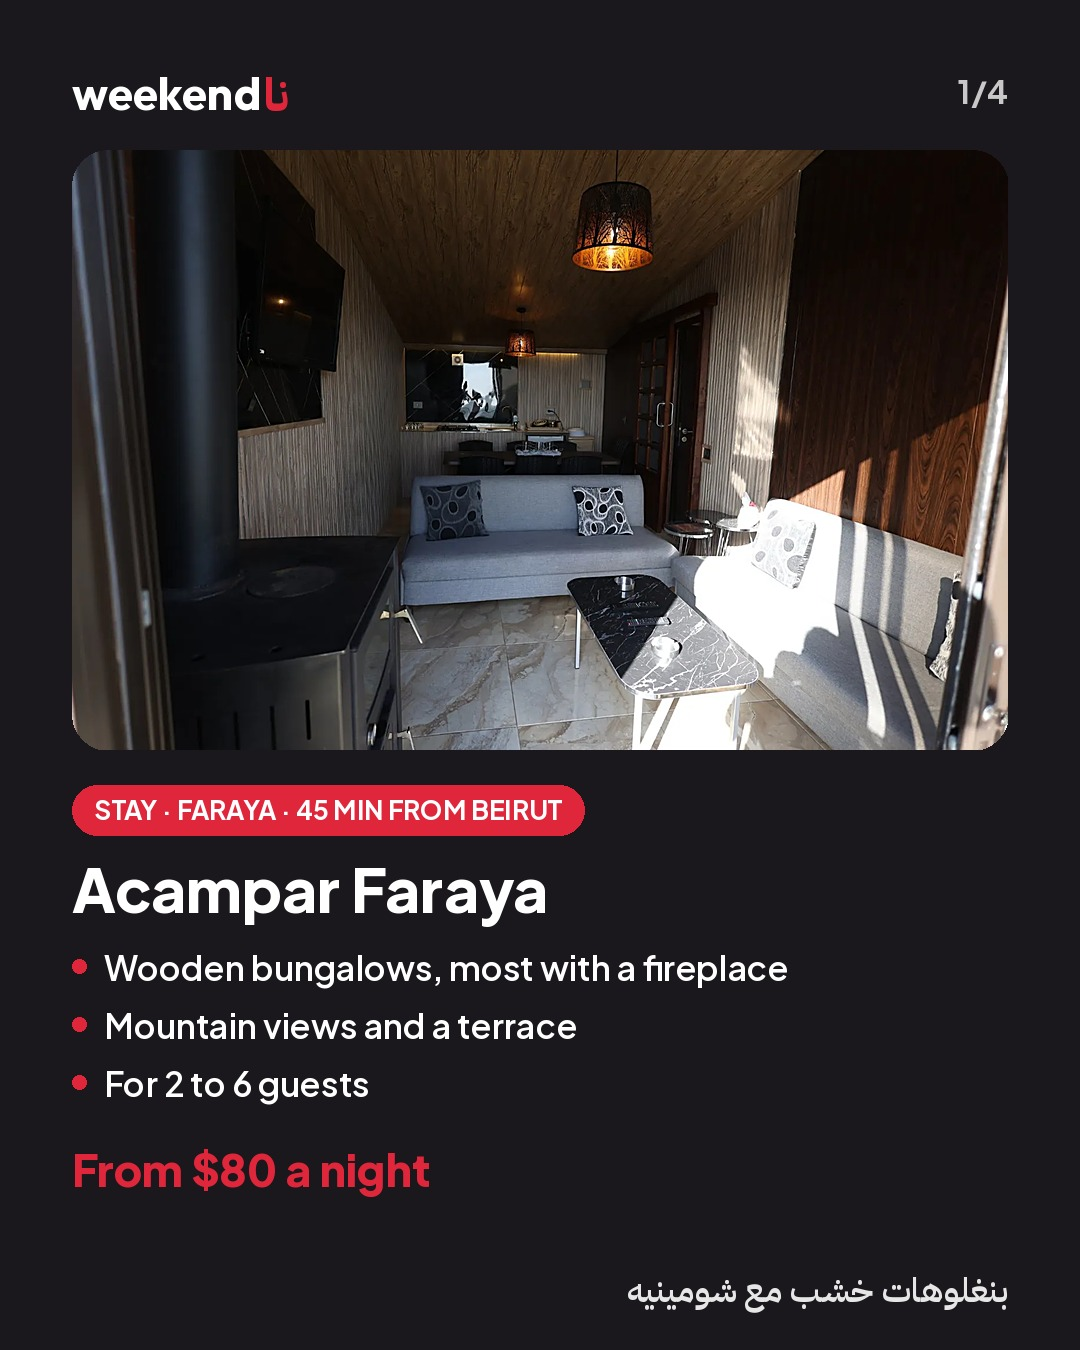
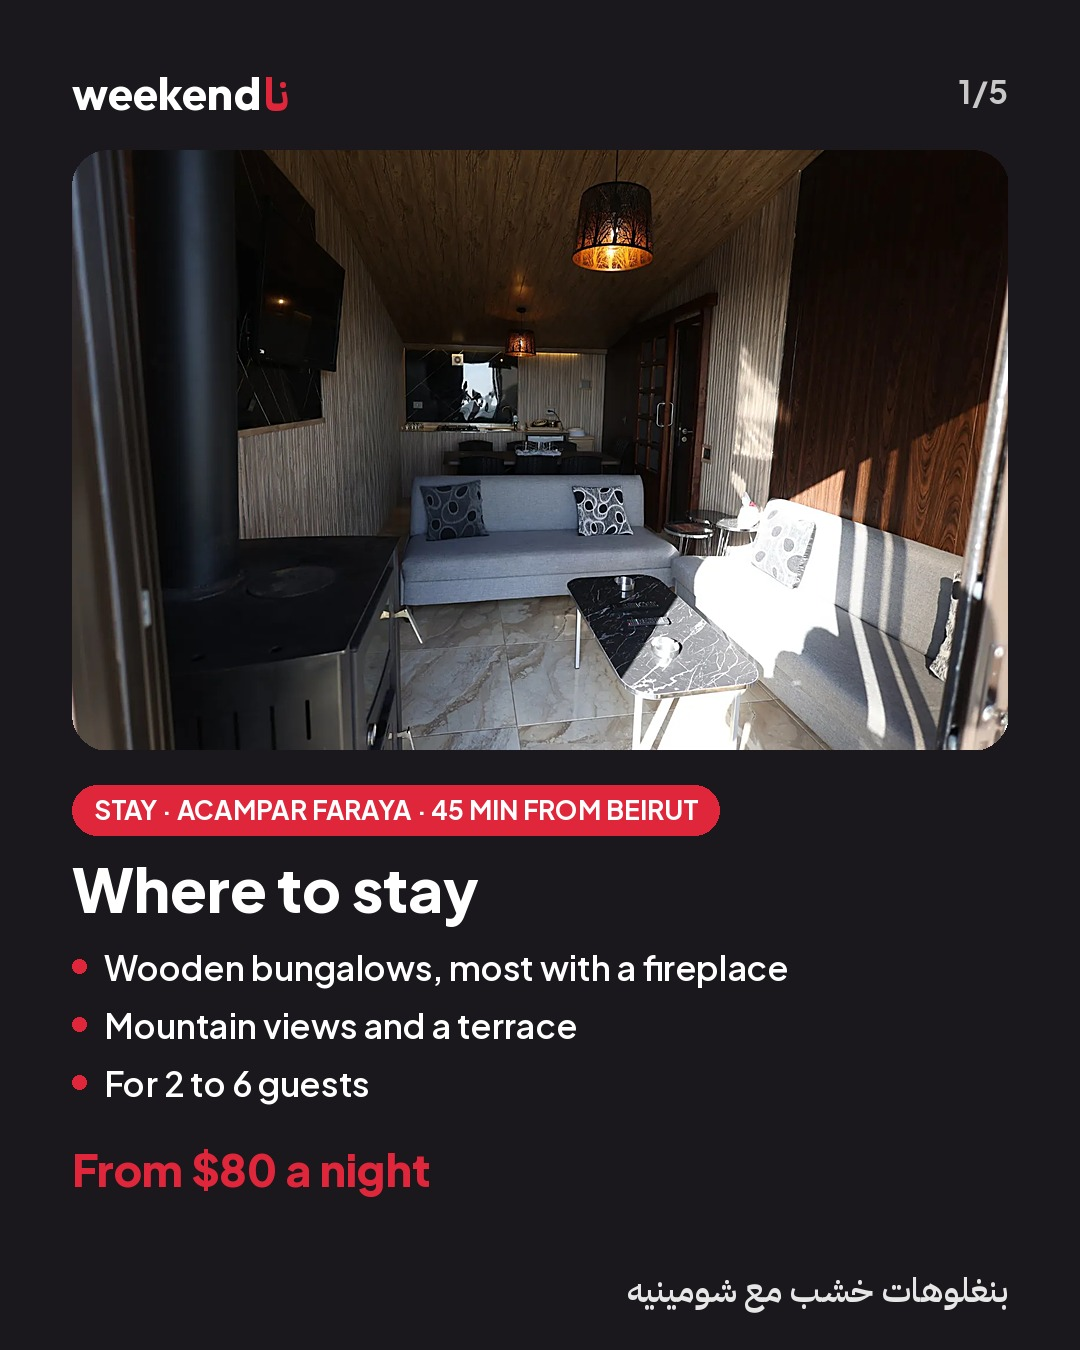
Faraya guide: separate stay, places, activities, food slides; on hold until Kamel approves
Claude-Session: https://claude.ai/code/session_01QuaNDh39daRNLQcQ5xCceG

Changed region(s): [[0.0611, 0.56, 0.6722, 0.6844], [0.8861, 0.0622, 0.9472, 0.0933]]

diff --git a/tools/examples/make_faraya_guide.py b/tools/examples/make_faraya_guide.py
@@ -8,14 +8,16 @@ ROOT = os.path.join(os.path.dirname(__file__), "..", ".."); O = f"{ROOT}/posts/2
 P = lambda f: Image.open(f"{ROOT}/reels/public/photos/{f}.webp").convert("RGB")
 slide1(P("acampar/42-02"), f"{O}/guide-1.jpg", "A weekend in Faraya", "Stay · Explore · Plan", "Fireplaces, mountain views and Roman ruins, 45 min from Beirut",
        "ويكند بفاريا: وين تقعد وشو تشوف", "Faraya · Faqra · Mzaar")
-place_slide(P("acampar/42-04"), f"{O}/guide-2.jpg", 1, 4, "Acampar Faraya", "Stay · Faraya · 45 min from Beirut",
+place_slide(P("acampar/42-04"), f"{O}/guide-2.jpg", 1, 5, "Where to stay", "Stay · Acampar Faraya · 45 min from Beirut",
             ["Wooden bungalows, most with a fireplace", "Mountain views and a terrace", "For 2 to 6 guests"], "From $80 a night", "بنغلوهات خشب مع شومينيه")
-place_slide(P("fvc/26-01"), f"{O}/guide-3.jpg", 2, 4, "Faraya Village Club", "Stay · Mzaar · 45 min from Beirut",
+place_slide(P("fvc/26-01"), f"{O}/guide-3.jpg", 2, 5, "Where to stay", "Stay · Faraya Village Club · Mzaar",
             ["A chimney in every chalet", "A heated pool on site", "From a studio for 2 to a chalet for 7"], "From $150 a night", "شاليهات مع شومينيه ومسبح مدفّأ")
-place_slide(P("acampar/42-01"), f"{O}/guide-4.jpg", 3, 4, "Explore nearby", "Faqra · Faraya",
-            ["Faqra Natural Bridge, a 38 m rock bridge", "Qalaat Faqra, Roman ruins and a 15 m tower", "Chabrouh Dam, above Faraya village"], "Check opening times before you go", "جسر فقرا الطبيعي، قلعة فقرا وسد شبروح")
-place_slide(P("acampar/42-05"), f"{O}/guide-5.jpg", 4, 4, "Your Faraya weekend", "Plan it in 3 steps",
-            ["Sat: a Faqra walk, then a fireplace evening", "Sun: Chabrouh Dam, then the drive back", "Winter roads: check the weather and bring warm layers"], "Snow depends on the weather", "السبت والأحد بفاريا")
-last(f"{O}/guide-6.jpg", None, "Plan your Faraya weekend", "خطّطوا ويكندكن بفاريا", main="save", head=("Your Faraya", "weekend starts here"))
+place_slide(P("acampar/42-01"), f"{O}/guide-4.jpg", 3, 5, "Places to visit", "Explore · Faqra and Faraya",
+            ["Faqra Natural Bridge, a 38 m rock bridge", "Qalaat Faqra, Roman ruins and a 15 m tower", "Chabrouh Dam and the Saint Charbel statue"], "Check opening times before you go", "جسر فقرا، قلعة فقرا، سد شبروح وتمثال مار شربل")
+place_slide(P("fvc/26-03"), f"{O}/guide-5.jpg", 4, 5, "Things to do", "Do · Mzaar and Faqra",
+            ["Ski the Mzaar slopes in the snow season", "Snowshoeing, ATV and snowmobile tours", "Walks, picnics and biking around Faqra"], "Snow and tours depend on the weather", "تزلج، مشي وجولات بفاريا وفقرا")
+place_slide(P("acampar/42-05"), f"{O}/guide-6.jpg", 5, 5, "Where to eat", "Eat · Faraya and Kfardebian",
+            ["Em Bashir: saj and manakish on the way up", "Fawzi, Kfardebian: traditional Lebanese", "El Mexicano: at the Faraya roundabout"], "Local picks, check hours before you go", "ورقة أكل بفاريا وكفردبيان")
+last(f"{O}/guide-7.jpg", None, "Plan your Faraya weekend", "خطّطوا ويكندكن بفاريا", main="save", head=("Your Faraya", "weekend starts here"))
 story(P("acampar/42-02"), f"{O}/story.jpg", "A weekend", "in Faraya", "Stays, sights and a simple plan", "ويكند بفاريا", main="save")
 print("ok")
